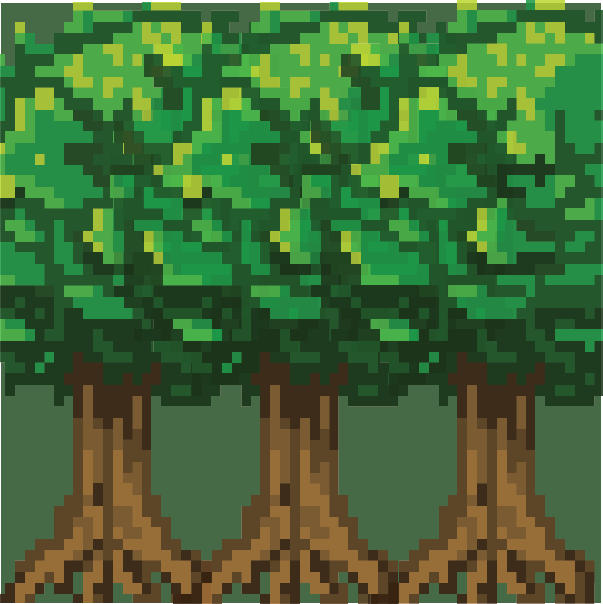
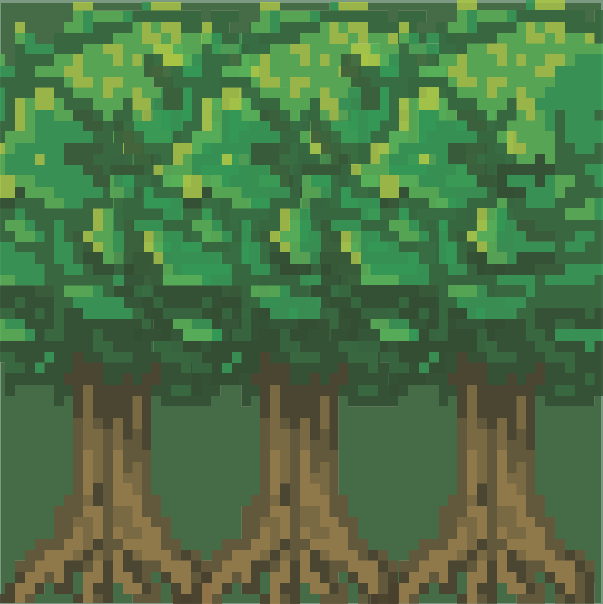
added html and three lives
to make the game look nice

diff --git a/sketch.js b/sketch.js
@@ -1,6 +1,7 @@
 let state = 'title';
 let cnv;
 let points = 0;
+let lives = 3;
 let w = 600;
 let h = 600;
 let player = 1;
@@ -106,7 +107,7 @@ function keyPressed() {
 }
 
 function title() {
-  background(8, 163, 150);
+  background(138, 171, 96);
   textSize(75);
   fill(255);
   textAlign(CENTER);
@@ -122,7 +123,8 @@ function titleMouseClicked() {
 }
 
 function level1() {
-  background(9, 82, 10);
+  background(9, 82, 30);
+  image(behindimage, w / 2, h / 2, w, h);
   //text('Click for points', w/2, h - 30);
 
   if (random(1) <= 0.06) {
@@ -195,7 +197,7 @@ function level1() {
   //check point values to win or loose the game
   if (points >= 10) {
     state = 'you win';
-  } else if (points <= -1){
+  } else if (points <= -1) {
     state = 'game over';
   }
 
@@ -227,16 +229,34 @@ function youWinMouseClicked() {
 }
 
 function gameOver() {
-  background(255, 212, 23);
+  background(186, 0, 0);
   textSize(80);
-  stroke(255);
-  text('Game Over', w / 2, h / 2);
 
-  textSize(30);
-  text('Click Anywhere To ReStart!', w / 2, h * 3 / 4);
+  //check # of lives
+  if (lives >= 0) {
+
+    //displays number of lives left on the screen
+    text(`lives left: ${lives}`, w / 2, h / 2);
+
+    textSize(30);
+    text('click anywhere to play again', w / 2, h * 3 / 4);
+  } else {
+    //Game really over
+    text('Game Over', w / 2, h / 2);
+
+    textSize(30);
+    text('Click Anywhere To ReStart!', w / 2, h * 3 / 4);
+  }
+
+
 }
 
 function gameOverMouseClicked() {
-  state = 'title';
+  if (lives >= 0) { //this means they have 0 lives going into it
+    lives--; //if you have a life, you lose one!
+    state = 'level 1';
+  } else {
+    state = 'title';
+  }
   points = 0;
 }

diff --git a/index.html b/index.html
@@ -1,14 +1,32 @@
-<!DOCTYPE html><html lang="en"><head>
+<!DOCTYPE html>
+<html lang="en"><head>
+
+<head>
     <script src="p5.js"></script>
     <script src="p5.sound.min.js"></script>
     <link rel="stylesheet" type="text/css" href="style.css">
     <meta charset="utf-8">
 
-  </head>
-  <body>
     <script src="sketch.js"></script>
     <script src="player.js"></script>
     <script src="coins.js"></script>
     <script src="enemies.js"></script>
 
-</body></html>
+  </head>
+
+  <body>
+    <h1>Arcade</h1>
+    <h2>Artist statement: I always find that games are good destressors for me.
+      Especially now with the Pandemic where we can't go out as much I can play
+      games with my friends online. I wanted to create this game because eventhough
+      it's not as complex as other games it's a fun little way to get entertained
+      while being at home.</h2>
+
+    <h2>The future goal with this page is to create other mini games within the page
+    to have it be like a little Arcade. I think this would be fun to explore and
+    have other types of games in. </h2>
+
+
+</body>
+
+</html>

diff --git a/style.css b/style.css
@@ -3,8 +3,23 @@ html, body {
   padding: 0;
 }
 
+body {
+  background-image: url('websitebackground.jpg');
+  margin: 100px auto 0 auto;
+  width: 80%;
+  text-align: center;
+  font-family: 'Courier New', monospace;
+}
+
 canvas {
   display: block;
   margin: 100px auto;
+}
 
+h1 {
+  font-size: 90px;
+}
+
+h2 {
+  font-size: 30px;
 }
